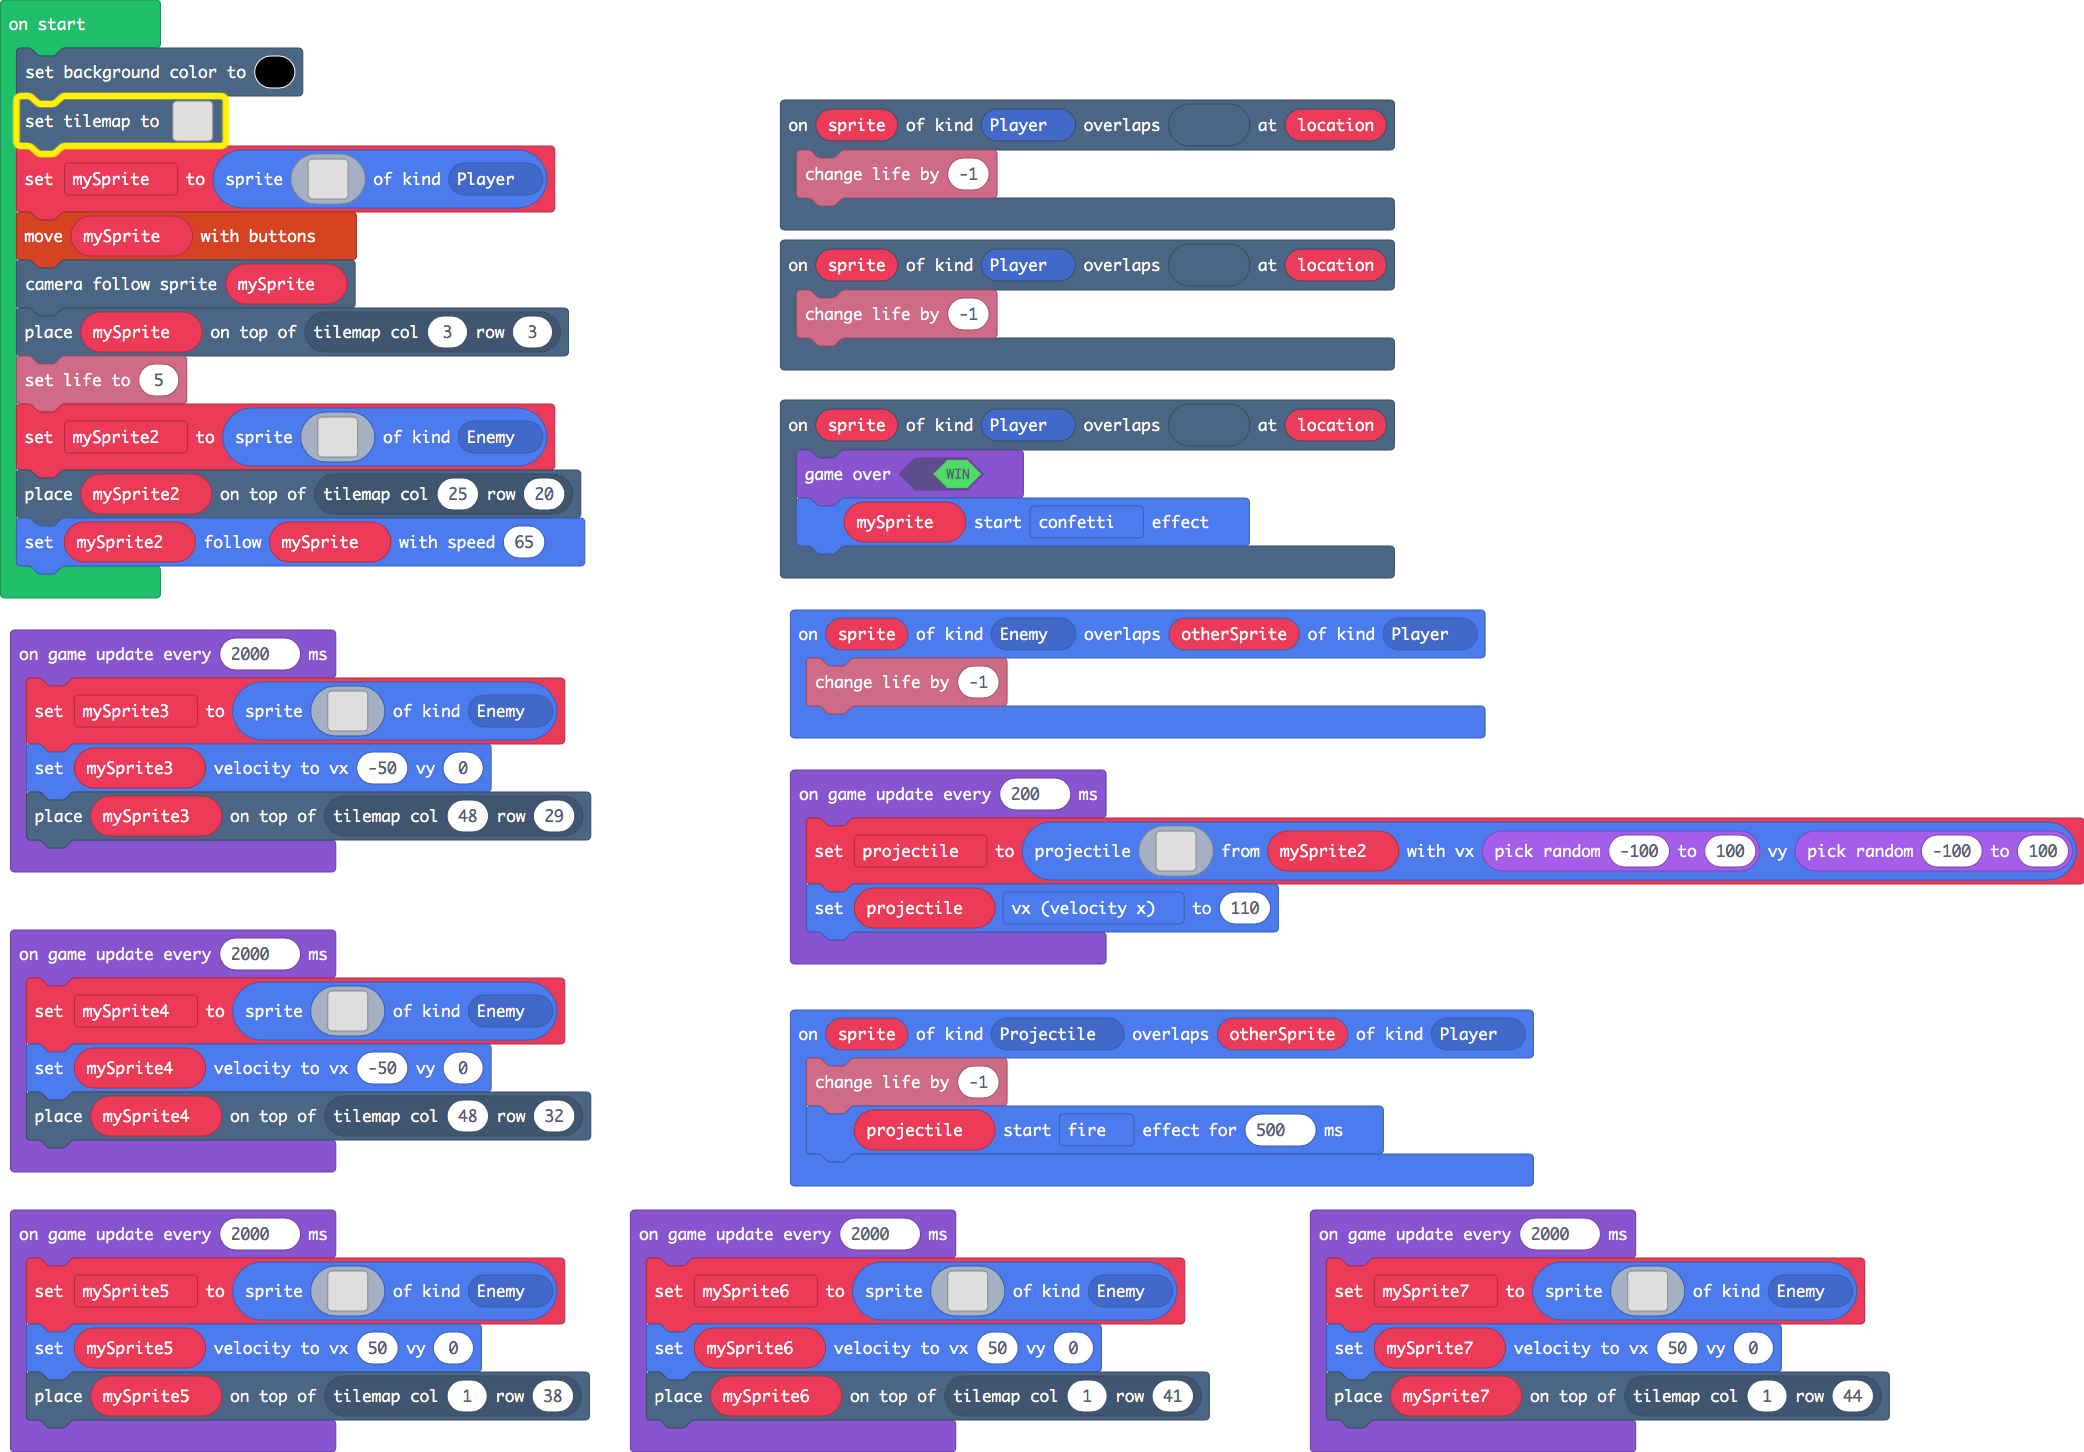
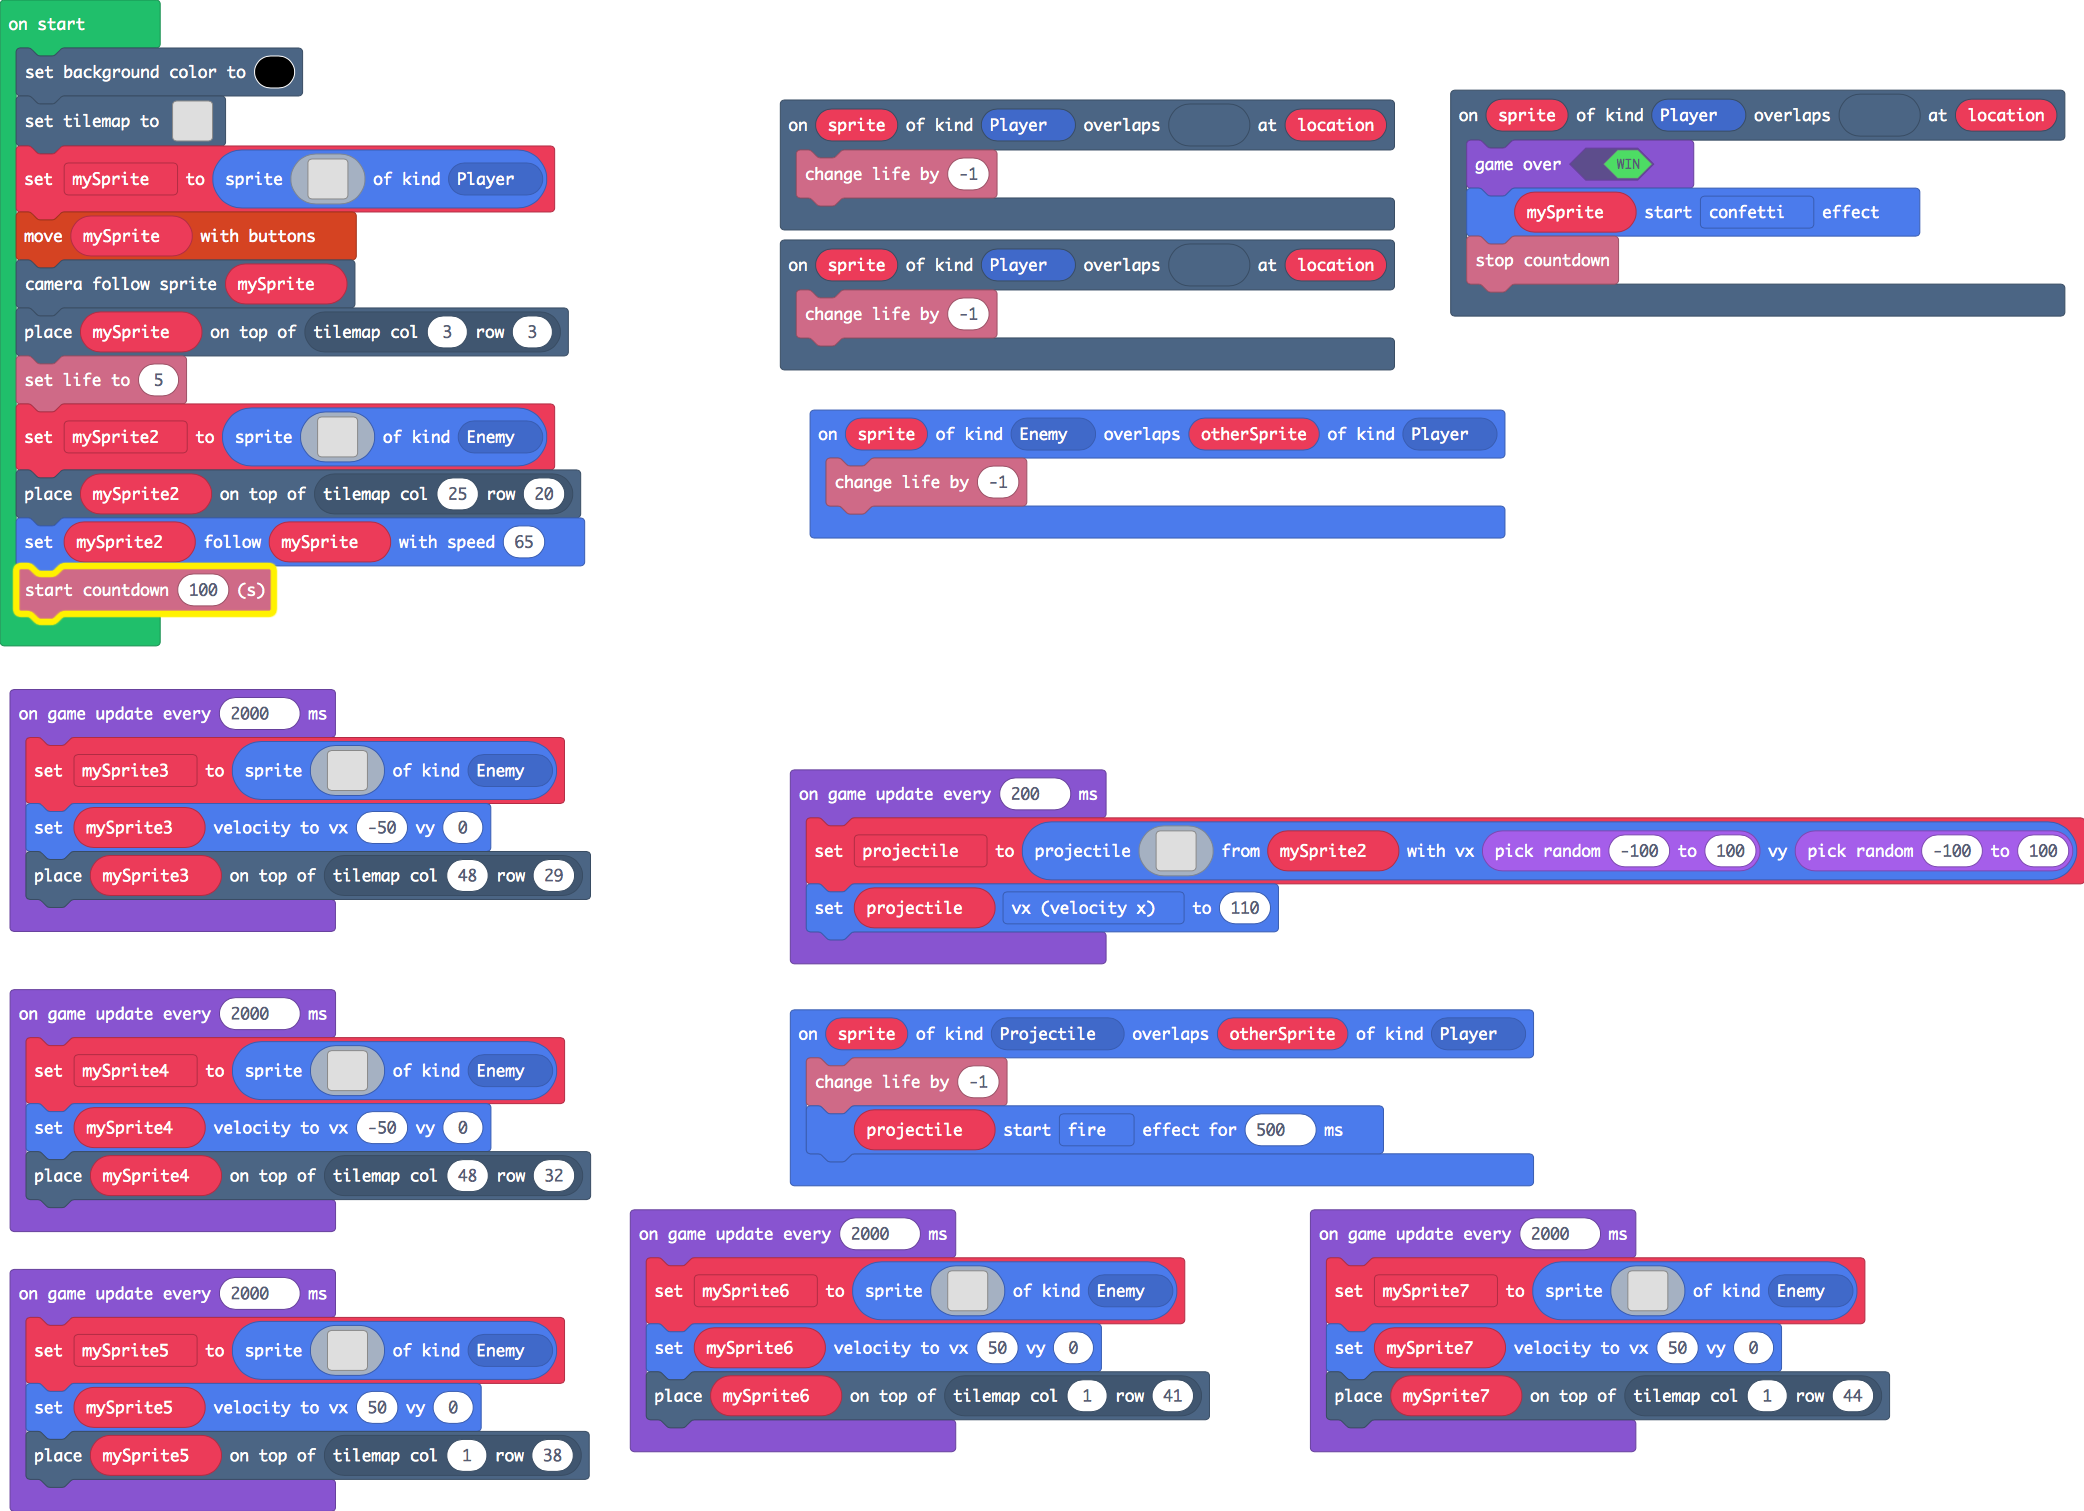
done game

diff --git a/main.ts b/main.ts
@@ -104,6 +104,7 @@ scene.onOverlapTile(SpriteKind.Player, sprites.dungeon.hazardLava1, function (sp
 scene.onOverlapTile(SpriteKind.Player, sprites.dungeon.buttonTealDepressed, function (sprite, location) {
     game.over(true)
     mySprite.startEffect(effects.confetti)
+    info.stopCountdown()
 })
 scene.onOverlapTile(SpriteKind.Player, sprites.dungeon.darkGroundNorth, function (sprite, location) {
     info.changeLifeBy(-1)
@@ -113,8 +114,8 @@ sprites.onOverlap(SpriteKind.Projectile, SpriteKind.Player, function (sprite, ot
     projectile.startEffect(effects.fire, 500)
 })
 let mySprite7: Sprite = null
-let mySprite6: Sprite = null
 let mySprite5: Sprite = null
+let mySprite6: Sprite = null
 let mySprite4: Sprite = null
 let mySprite3: Sprite = null
 let projectile: Sprite = null
@@ -219,6 +220,7 @@ let mySprite2 = sprites.create(img`
 `, SpriteKind.Enemy)
 tiles.placeOnTile(mySprite2, tiles.getTileLocation(25, 20))
 mySprite2.follow(mySprite, 65)
+info.startCountdown(100)
 game.onUpdateInterval(2000, function () {
     mySprite3 = sprites.create(img`
 . . . . . . . . . . . . . . . . 
@@ -264,28 +266,6 @@ game.onUpdateInterval(2000, function () {
     tiles.placeOnTile(mySprite4, tiles.getTileLocation(48, 32))
 })
 game.onUpdateInterval(2000, function () {
-    mySprite5 = sprites.create(img`
-. . . . . . . . . . . . . . . . 
-. . . . . . . . . . . . . . . . 
-. . . . . . . . . . . . . . . . 
-2 2 . . . . . . . . . . . . . . 
-2 2 2 . . . . . . . . . . . . . 
-2 1 2 2 2 2 2 2 2 2 2 2 2 2 2 . 
-2 1 1 1 1 1 1 1 1 1 1 1 1 1 2 2 
-2 1 1 1 1 1 1 1 1 1 1 1 1 1 1 2 
-2 1 1 1 1 1 1 1 1 1 1 1 1 1 2 2 
-2 1 2 2 2 2 2 2 2 2 2 2 2 2 2 . 
-2 2 2 . . . . . . . . . . . . . 
-2 2 . . . . . . . . . . . . . . 
-. . . . . . . . . . . . . . . . 
-. . . . . . . . . . . . . . . . 
-. . . . . . . . . . . . . . . . 
-. . . . . . . . . . . . . . . . 
-`, SpriteKind.Enemy)
-    mySprite5.setVelocity(50, 0)
-    tiles.placeOnTile(mySprite5, tiles.getTileLocation(1, 38))
-})
-game.onUpdateInterval(2000, function () {
     mySprite6 = sprites.create(img`
 . . . . . . . . . . . . . . . . 
 . . . . . . . . . . . . . . . . 
@@ -306,6 +286,28 @@ game.onUpdateInterval(2000, function () {
 `, SpriteKind.Enemy)
     mySprite6.setVelocity(50, 0)
     tiles.placeOnTile(mySprite6, tiles.getTileLocation(1, 41))
+})
+game.onUpdateInterval(2000, function () {
+    mySprite5 = sprites.create(img`
+. . . . . . . . . . . . . . . . 
+. . . . . . . . . . . . . . . . 
+. . . . . . . . . . . . . . . . 
+2 2 . . . . . . . . . . . . . . 
+2 2 2 . . . . . . . . . . . . . 
+2 1 2 2 2 2 2 2 2 2 2 2 2 2 2 . 
+2 1 1 1 1 1 1 1 1 1 1 1 1 1 2 2 
+2 1 1 1 1 1 1 1 1 1 1 1 1 1 1 2 
+2 1 1 1 1 1 1 1 1 1 1 1 1 1 2 2 
+2 1 2 2 2 2 2 2 2 2 2 2 2 2 2 . 
+2 2 2 . . . . . . . . . . . . . 
+2 2 . . . . . . . . . . . . . . 
+. . . . . . . . . . . . . . . . 
+. . . . . . . . . . . . . . . . 
+. . . . . . . . . . . . . . . . 
+. . . . . . . . . . . . . . . . 
+`, SpriteKind.Enemy)
+    mySprite5.setVelocity(50, 0)
+    tiles.placeOnTile(mySprite5, tiles.getTileLocation(1, 38))
 })
 game.onUpdateInterval(2000, function () {
     mySprite7 = sprites.create(img`
